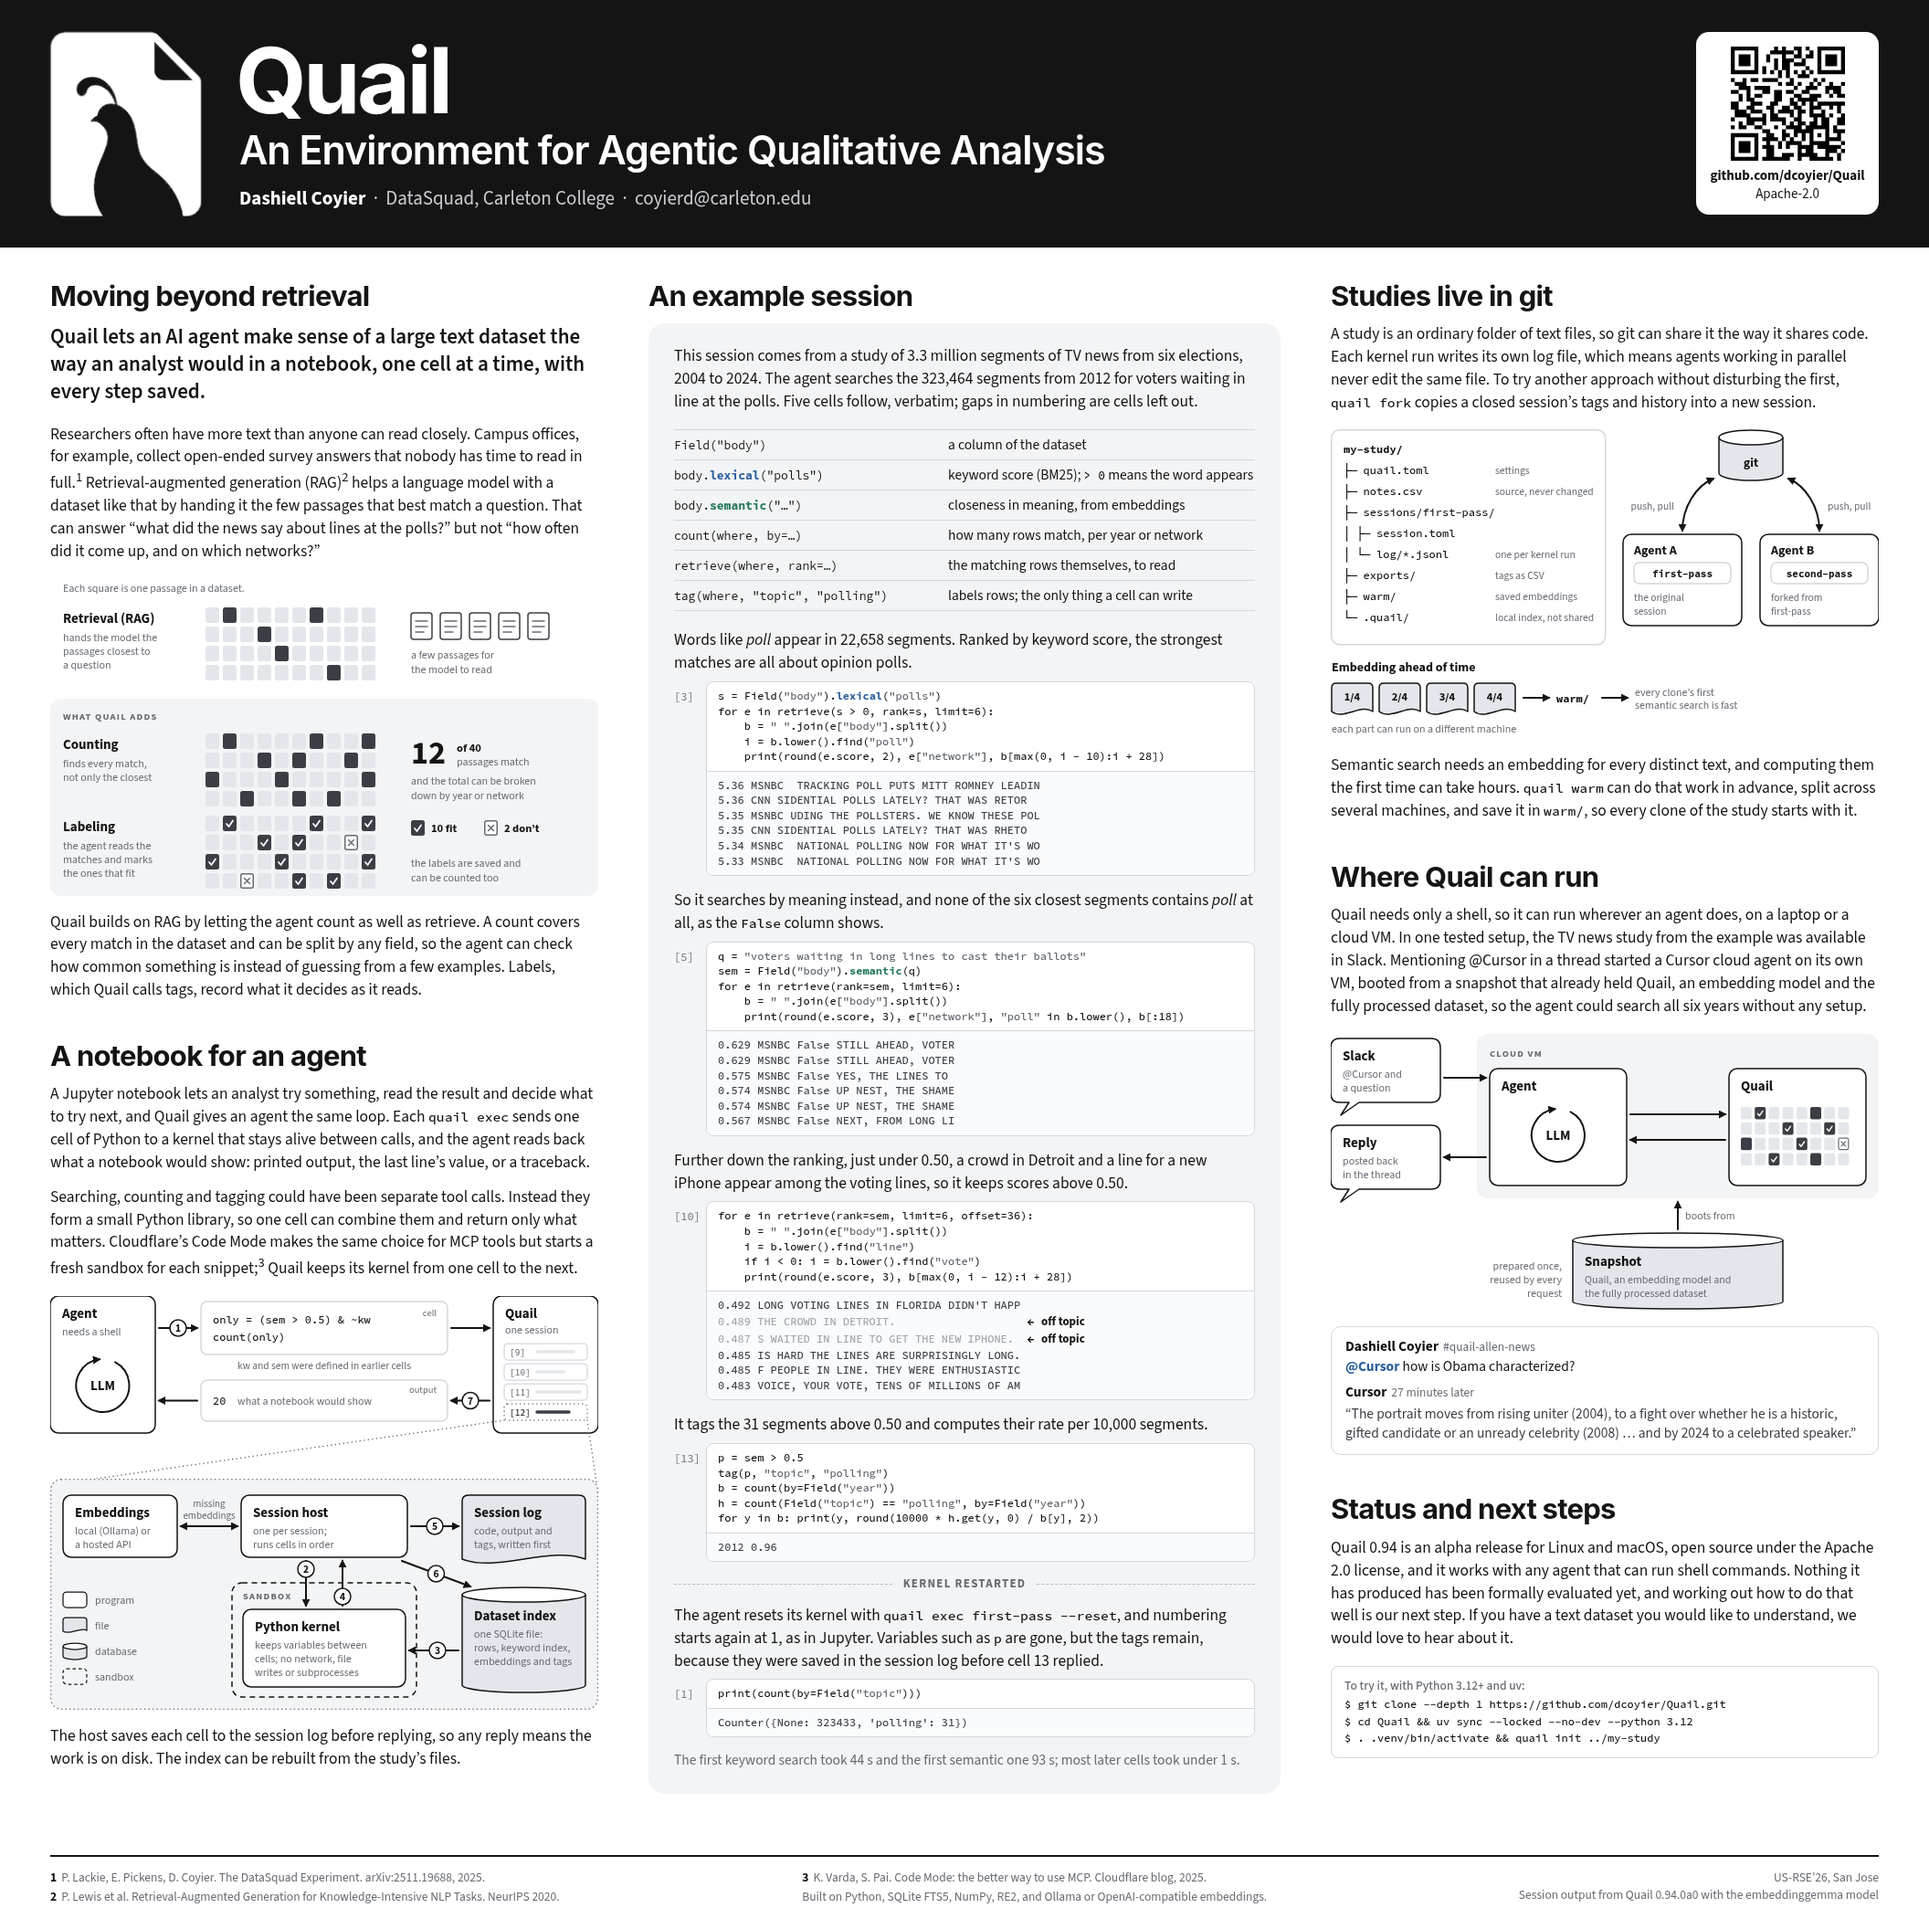
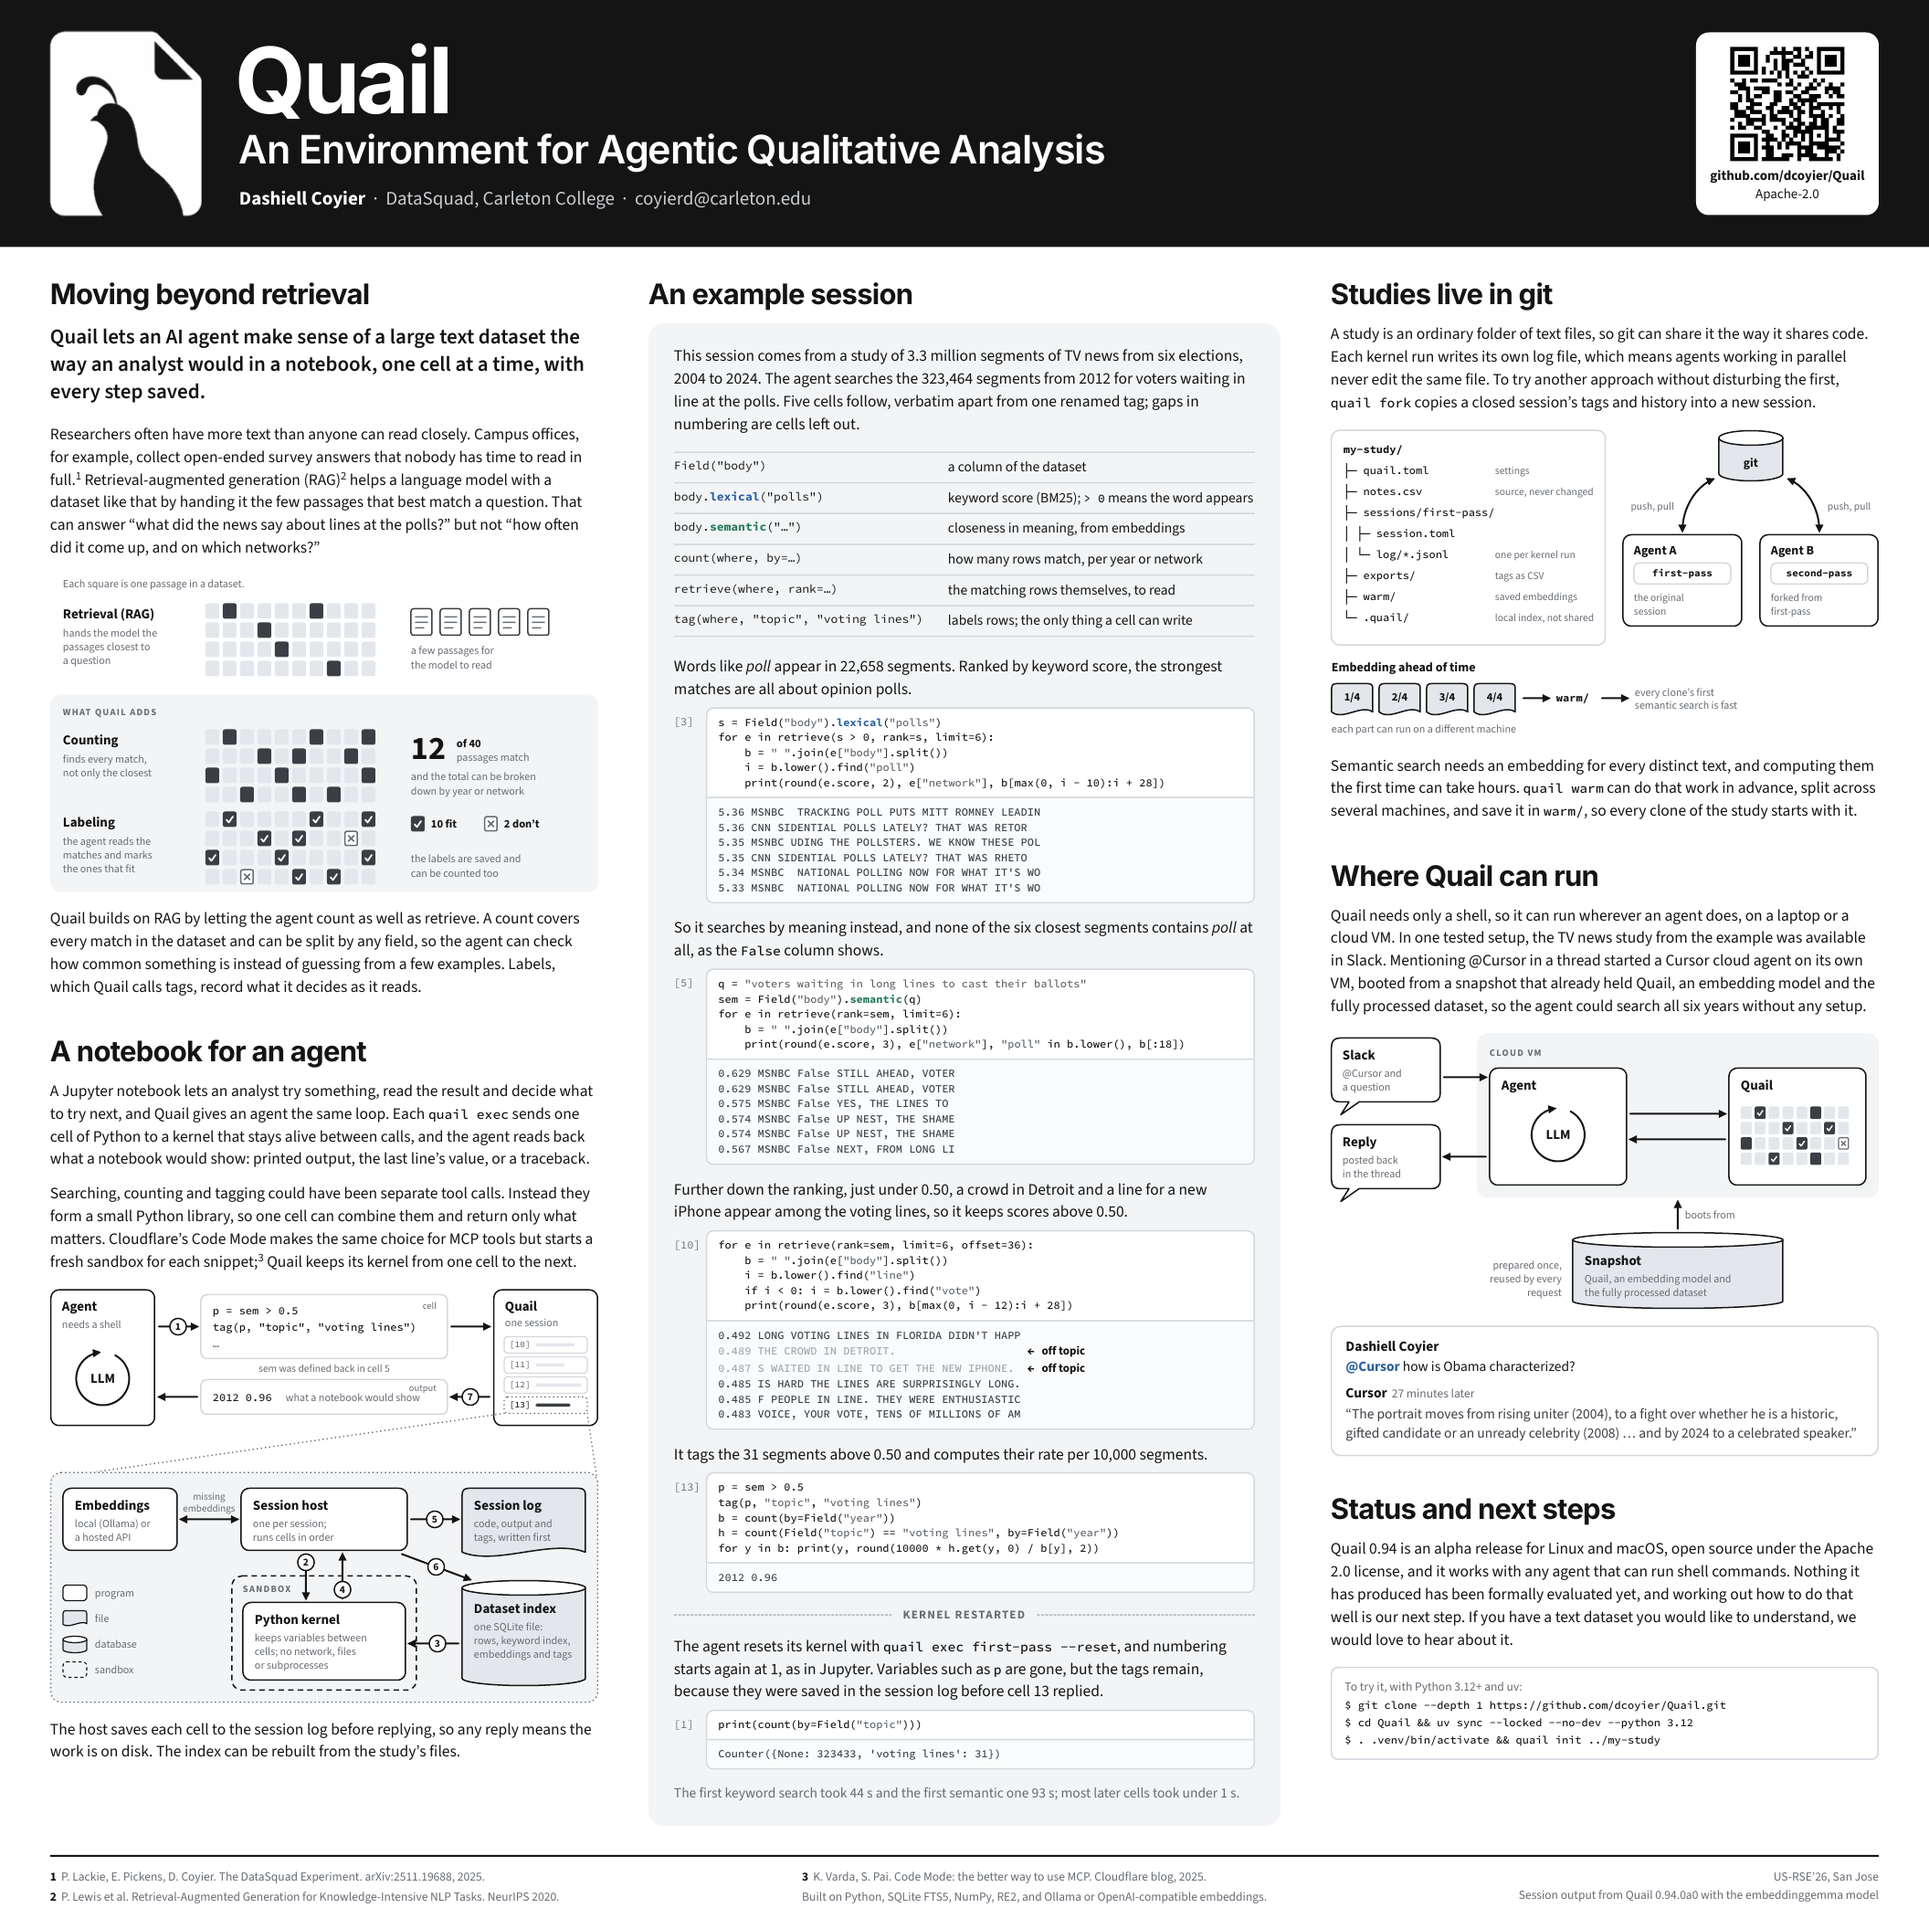
Fix clipped figure borders, footnote spacing and inconsistencies with the example
- Boxes on the edge of the loop, study and deploy figures are inset by
  half their stroke, so their outlines are no longer cut in half.
- Footnote superscripts no longer push their lines apart.
- The loop figure zooms into cell 13 from the example (shortened),
  whose code and output appear in the example column, instead of a
  cell 12 that used a kw variable the example never defines.
- The example's tag is renamed from "polling" to "voting lines", since
  cell 3 shows that "polls" means opinion polls; the intro now says the
  cells are verbatim apart from that renamed tag.
- The kernel box says no network, files or subprocesses, matching the
  manual and the abstract: cells cannot read files either.
- The Slack excerpt drops the #quail-allen-news channel name.
- The preview is rasterized from poster.pdf, so it matches the print.

Claude-Session: https://claude.ai/code/session_01ChZ8DmmKvsKSV4JFVieZLU

diff --git a/poster/poster.html b/poster/poster.html
@@ -47,14 +47,14 @@
 <section id="example">
   <h2>An example session</h2>
   <div class="notebook">
-    <p class="intro">This session comes from a study of 3.3 million segments of TV news from six elections, 2004 to 2024. The agent searches the 323,464 segments from 2012 for voters waiting in line at the polls. Five cells follow, verbatim; gaps in numbering are cells left out.</p>
+    <p class="intro">This session comes from a study of 3.3 million segments of TV news from six elections, 2004 to 2024. The agent searches the 323,464 segments from 2012 for voters waiting in line at the polls. Five cells follow, verbatim apart from one renamed tag; gaps in numbering are cells left out.</p>
     <table class="lang">
       <tr><td>Field("body")</td><td>a column of the dataset</td></tr>
       <tr><td>body.<span class="kw">lexical</span>("polls")</td><td>keyword score (BM25); <code>&gt; 0</code> means the word appears</td></tr>
       <tr><td>body.<span class="sem">semantic</span>("&hellip;")</td><td>closeness in meaning, from embeddings</td></tr>
       <tr><td>count(where, by=&hellip;)</td><td>how many rows match, per year or network</td></tr>
       <tr><td>retrieve(where, rank=&hellip;)</td><td>the matching rows themselves, to read</td></tr>
-      <tr><td>tag(where, "topic", "polling")</td><td>labels rows; the only thing a cell can write</td></tr>
+      <tr><td>tag(where, "topic", "voting lines")</td><td>labels rows; the only thing a cell can write</td></tr>
     </table>
 
     <div class="step">
@@ -102,9 +102,9 @@ for e in retrieve(rank=sem, limit=6):
     <div class="step">
       <p class="say">It tags the 31 segments above 0.50 and computes their rate per 10,000 segments.</p>
       <div class="cellrow"><span class="no">[13]</span><div class="cell"><pre class="in">p = sem &gt; 0.5
-tag(p, <span class="st">"topic"</span>, <span class="st">"polling"</span>)
+tag(p, <span class="st">"topic"</span>, <span class="st">"voting lines"</span>)
 b = count(by=Field(<span class="st">"year"</span>))
-h = count(Field(<span class="st">"topic"</span>) == <span class="st">"polling"</span>, by=Field(<span class="st">"year"</span>))
+h = count(Field(<span class="st">"topic"</span>) == <span class="st">"voting lines"</span>, by=Field(<span class="st">"year"</span>))
 for y in b: print(y, round(10000 * h.get(y, 0) / b[y], 2))</pre><pre class="out">2012 0.96</pre></div></div>
     </div>
 
@@ -112,7 +112,7 @@ for y in b: print(y, round(10000 * h.get(y, 0) / b[y], 2))</pre><pre class="out"
 
     <div class="step">
       <p class="say">The agent resets its kernel with <code>quail exec first-pass --reset</code>, and numbering starts again at 1, as in Jupyter. Variables such as <code>p</code> are gone, but the tags remain, because they were saved in the session log before cell 13 replied.</p>
-      <div class="cellrow"><span class="no">[1]</span><div class="cell"><pre class="in">print(count(by=Field(<span class="st">"topic"</span>)))</pre><pre class="out">Counter({None: 323433, 'polling': 31})</pre></div></div>
+      <div class="cellrow"><span class="no">[1]</span><div class="cell"><pre class="in">print(count(by=Field(<span class="st">"topic"</span>)))</pre><pre class="out">Counter({None: 323433, 'voting lines': 31})</pre></div></div>
     </div>
     <p class="small" style="margin:0;color:var(--muted)">The first keyword search took 44&nbsp;s and the first semantic one 93&nbsp;s; most later cells took under 1&nbsp;s.</p>
   </div>
@@ -134,7 +134,7 @@ for y in b: print(y, round(10000 * h.get(y, 0) / b[y], 2))</pre><pre class="out"
   <p>Quail needs only a shell, so it can run wherever an agent does, on a laptop or a cloud VM. In one tested setup, the TV news study from the example was available in Slack. Mentioning @Cursor in a thread started a Cursor cloud agent on its own VM, booted from a snapshot that already held Quail, an embedding model and the fully processed dataset, so the agent could search all six years without any setup.</p>
   <figure><img src="figures/deploy.svg" alt="A Slack question starts a cloud VM from a snapshot holding Quail, an embedding model and the processed dataset; the agent runs Quail cells and replies in the thread"></figure>
   <div class="thread">
-    <div><span class="who">Dashiell Coyier</span><span class="meta">#quail-allen-news</span></div>
+    <div><span class="who">Dashiell Coyier</span></div>
     <p class="q"><span class="mention">@Cursor</span> how is Obama characterized?</p>
     <div><span class="who">Cursor</span><span class="meta">27 minutes later</span></div>
     <p class="a">&ldquo;The portrait moves from rising uniter (2004), to a fight over whether he is a historic, gifted candidate or an unready celebrity (2008) &hellip; and by 2024 to a celebrated speaker.&rdquo;</p>

diff --git a/poster/poster.css b/poster/poster.css
@@ -110,6 +110,7 @@ figure { margin: 34px 0; }
 figure:last-child { margin-bottom: 0; }
 figure img { display: block; width: 100%; height: auto; }
 b { font-weight: 700; }
+sup { position: relative; top: -0.45em; vertical-align: baseline; font-size: 0.72em; line-height: 0; }
 
 code, .mono { font-family: var(--mono); font-size: 0.84em; font-weight: 500; }
 code, pre, .mono { font-variant-ligatures: none; font-feature-settings: "calt" 0, "liga" 0; }
